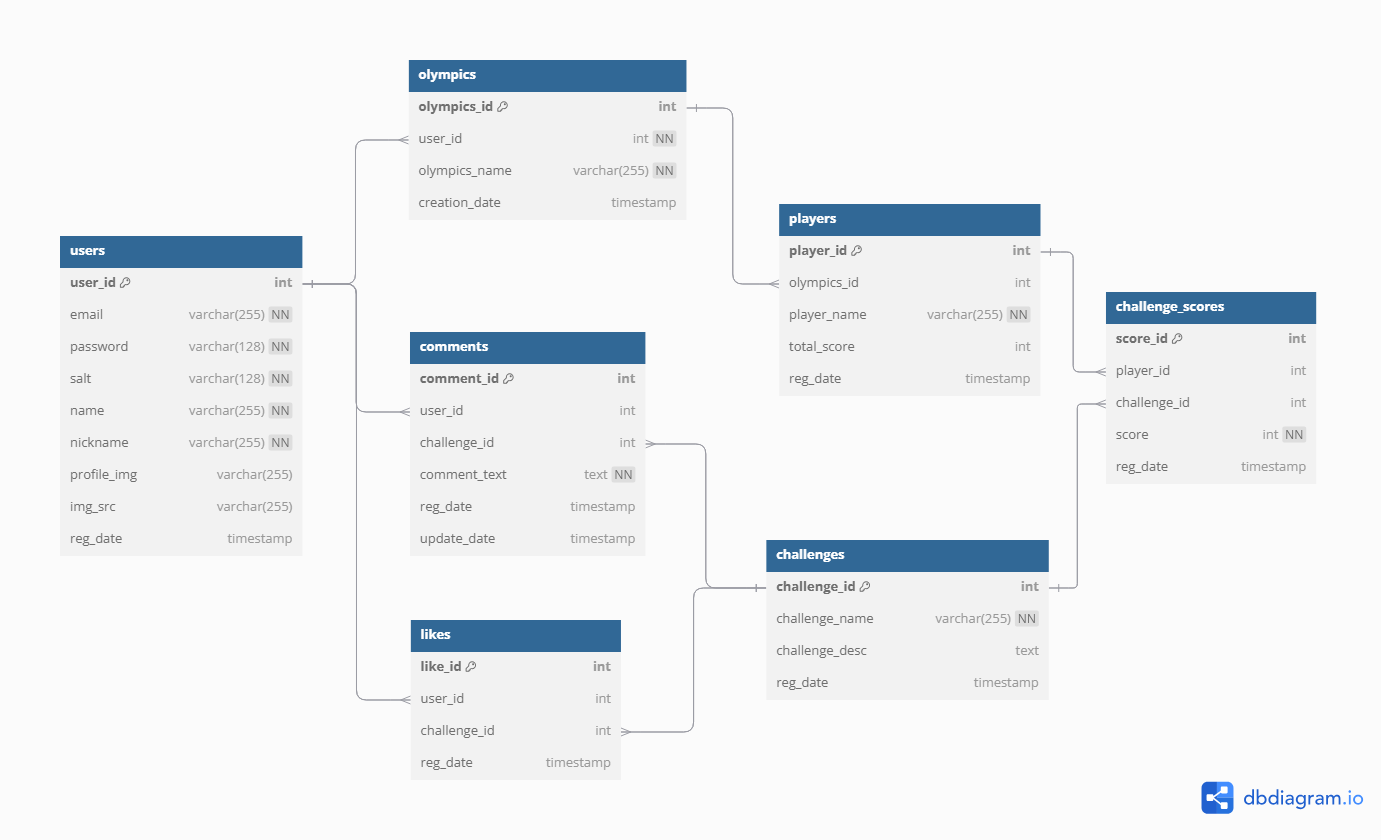
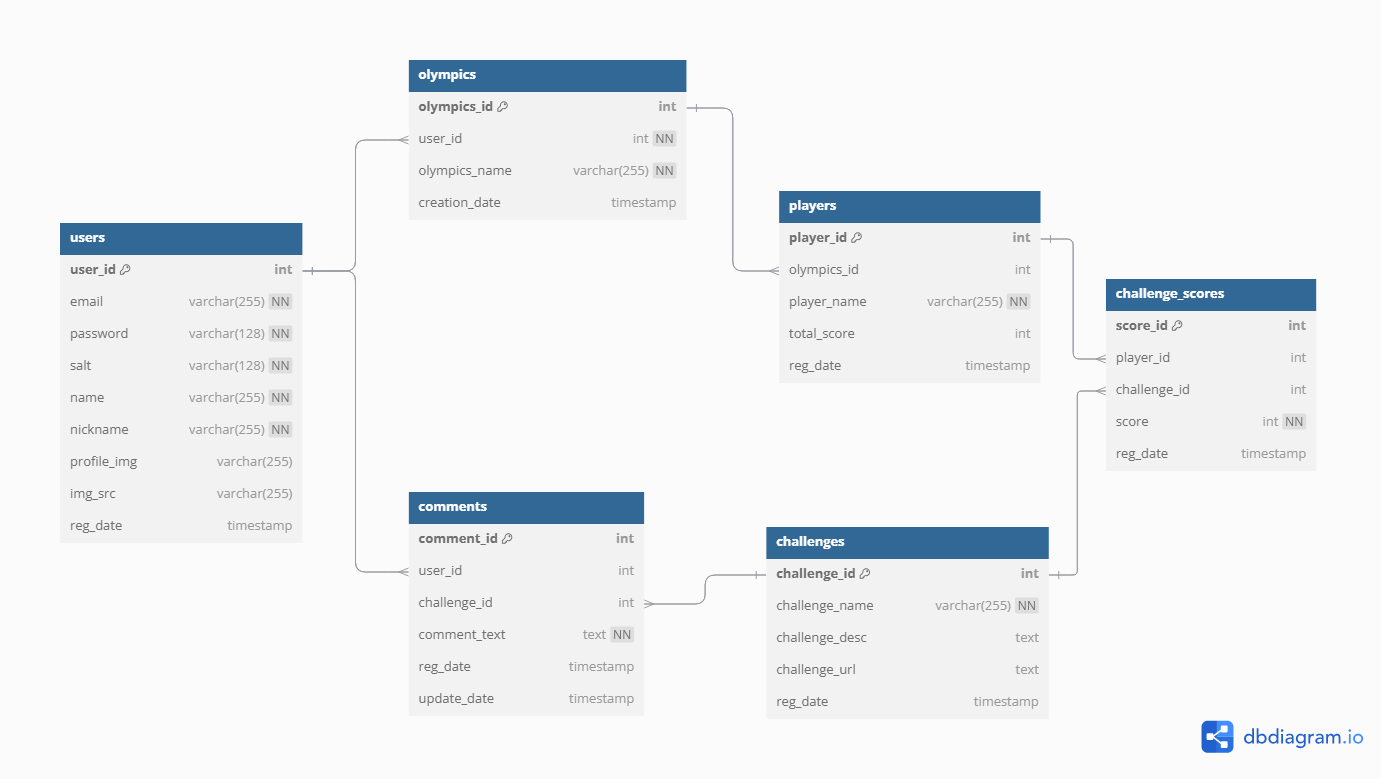
Docs: 회의록 작성 및 ERD 이미지 수정
프로젝트 회의록을 작성하고 데이터베이스 구조 변경 사항을 반영하여 ERD 이미지를 수정했습니다.

diff --git a/meeting_log.md b/meeting_log.md
@@ -1,4 +1,35 @@
-# 2024년 11월 6일
+# 2024년 11월 13일
+
+### 1. 현재 진행 상황 공유
+
+#### Backend 
+  - 챌린지 기능 완료
+  - API 명세서 수정
+  - 챌린지: 동일 게임 시 점수 누적 방식으로 수정
+
+#### Frontend
+  - 기본 스켈레톤 구조 생성 및 UI/UX 기본 원리 학습 완료
+  - 금요일까지 모든 페이지 디자인 완료 예정
+  - 맥 환경에서의 DB 연결 문제 해결 중
+
+### 2. 수정 필요 사항
+
+#### Backend 
+  - 닉네임 출력 시 HTML 이스케이프 처리 필요
+  - `ResponseEntity` 형식 통일 (ChallengeController 기준)
+  - MyPage에서 Olympic 확인, 댓글 기능, 비밀번호 수정 추가 예정
+
+#### Frontend
+  - 현재는 수정 사항 없음
+
+### 기타
+  - API 명세 검토 및 교수님 2차 미팅 일정 수립
+  - GET olympics/team/{olympicId} 필요 없음
+  - 한 유저당 하나의 Olympic만 개최 가능 (새로운 Olympic 시 기존 데이터 삭제)
+  - 댓글 기능 (추가) 우선 구현, 좋아요 기능 삭제
+
+
+## 2024년 11월 6일
 
 ### 1. 현재 진행 상황 공유
 
